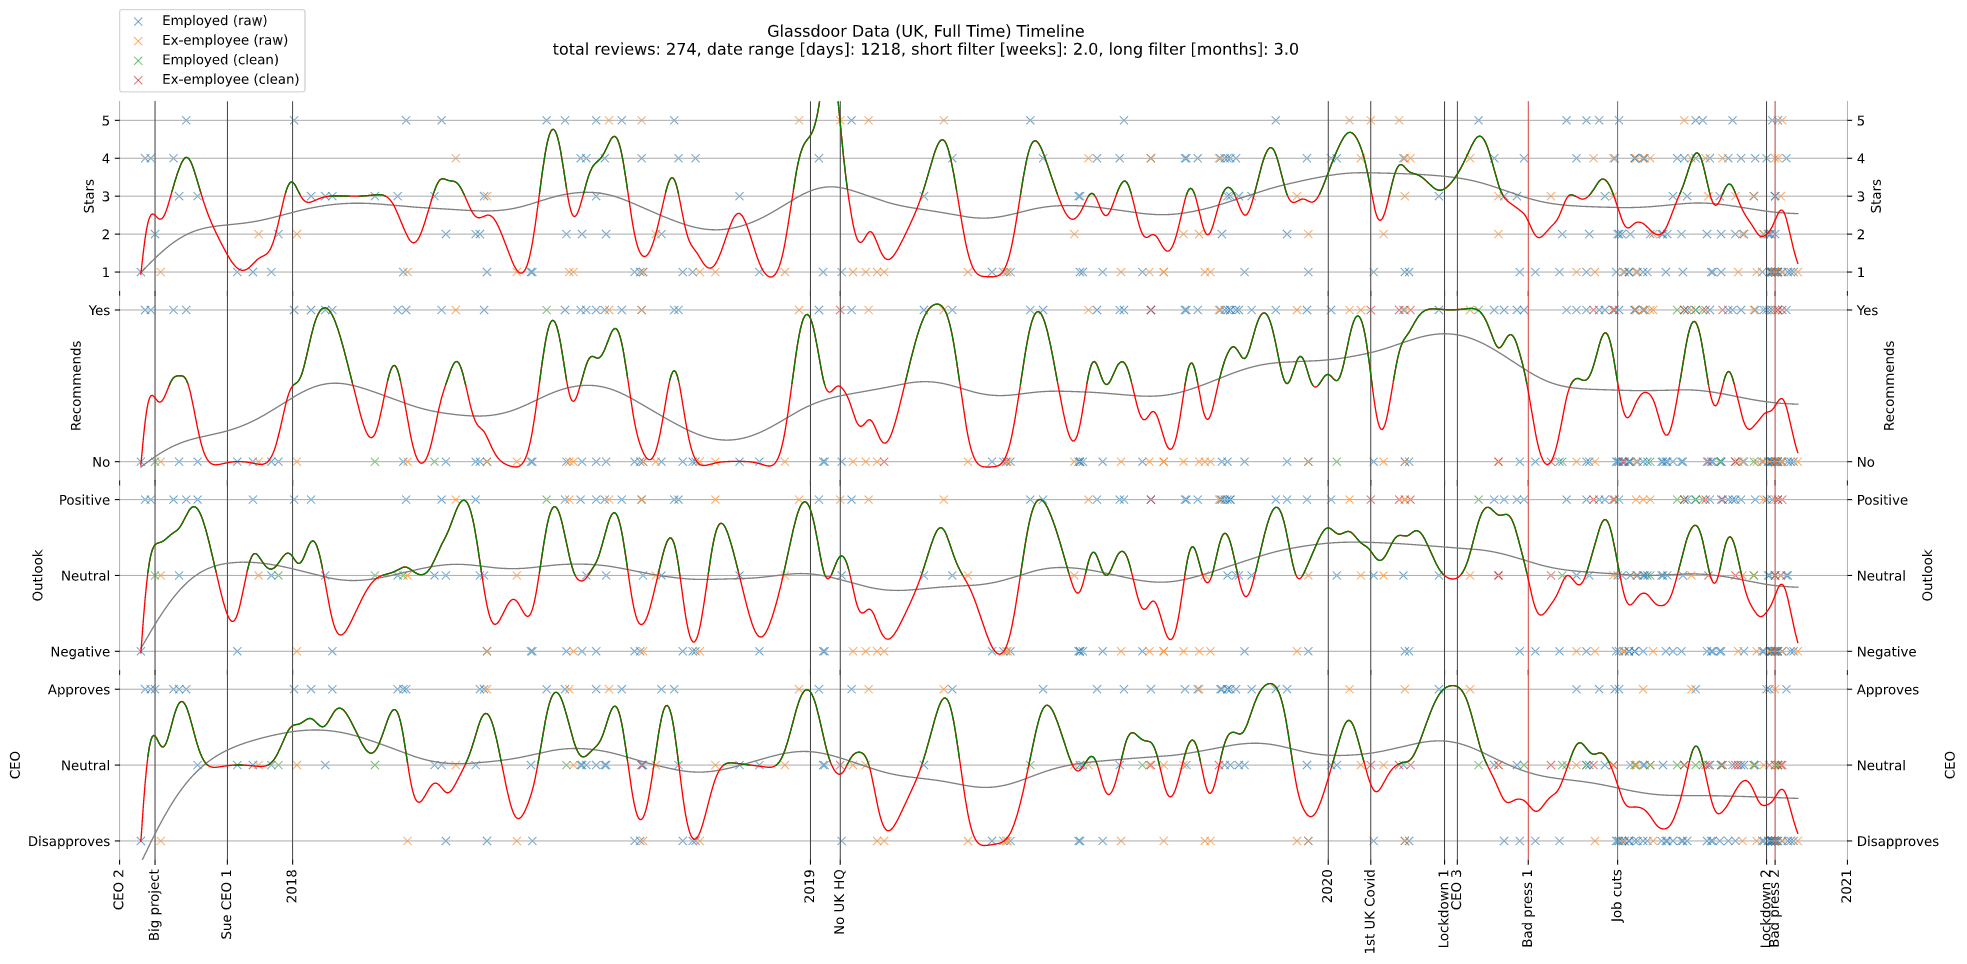
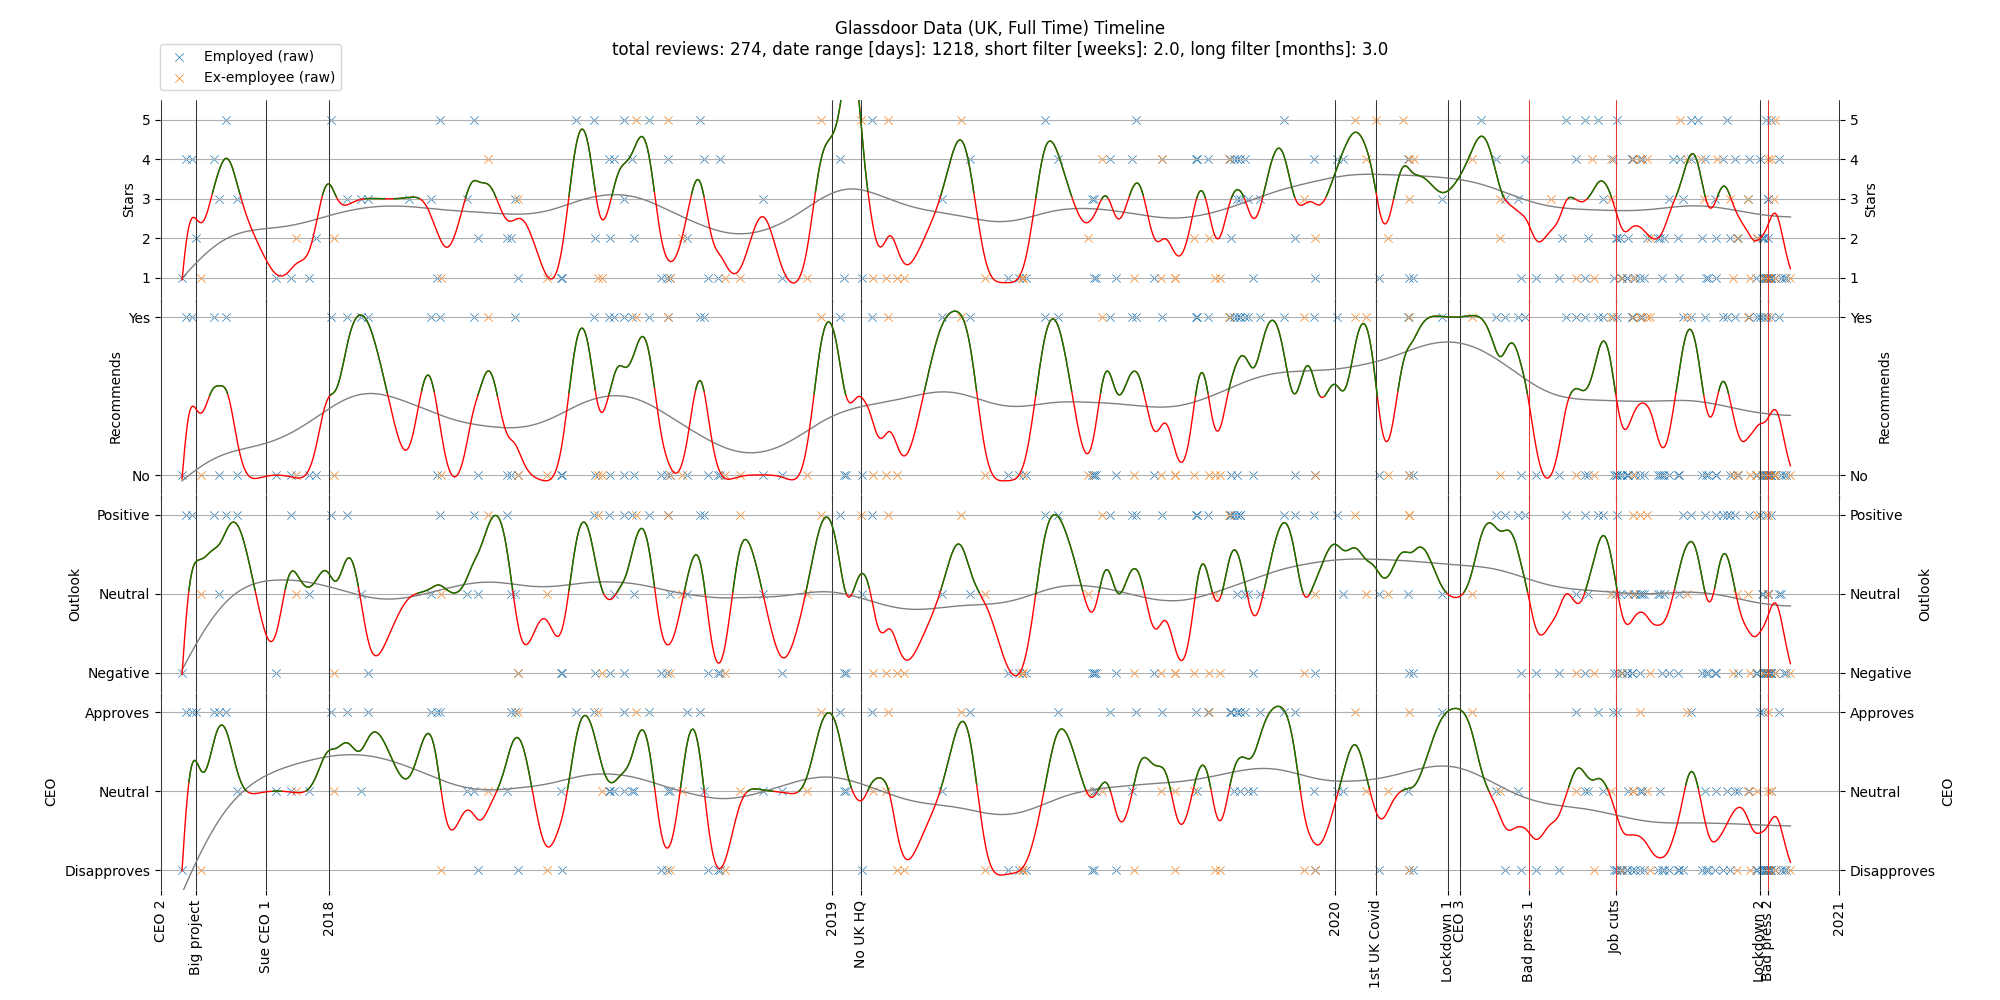
readme stats table, review_freq plot

diff --git a/main.py b/main.py
@@ -39,8 +39,14 @@ DOI_LABELS, DOI_DATES, DOI_COLOURS = zip(
     ("2021", date(2021, 1, 1), "black")
 )
 
-START_DATE = DOI_DATES[DOI_LABELS.index("CEO 2")]
-END_DATE = DOI_DATES[DOI_LABELS.index("2021")]
+def doi_date(label: str) -> date:
+    return DOI_DATES[DOI_LABELS.index(label)]
+
+def doi_label(date_: date) -> str:
+    return DOI_LABELS[DOI_DATES.index(date_)]
+
+START_DATE = doi_date("CEO 2")
+END_DATE = doi_date("2021")
 
 README_TITLE = "Glassdoor Data (UK, Full Time)"
 
@@ -58,7 +64,7 @@ df = pd.read_excel("data.xlsx").iloc[::-1]  # reverse to be ascending
 
 # %% ensure ordered
 iso = df["date"].apply(date.fromisoformat)
-assert all(x[0] <= x[1] for x in zip(iso[:-1], iso[1:]))
+assert all(prev <= curr for prev, curr in zip(iso[:-1], iso[1:]))
 
 # %% remove out of bounds rows
 df = df[(START_DATE <= iso) & (iso <= END_DATE)]
@@ -98,8 +104,8 @@ clean["ceo_opinion"] = clean["ceo_opinion"].fillna(value=0)
 clean["years"] = clean["years"].fillna(value=0)
 
 # %% create markdown report
-ceo_2_start = DOI_DATES[DOI_LABELS.index("CEO 2")]
-ceo_2_end = DOI_DATES[DOI_LABELS.index("CEO 3")]
+ceo_2_start = doi_date("CEO 2")
+ceo_2_end = doi_date("CEO 3")
 ceo_2_opinion = clean["ceo_opinion"].where(
     (ceo_2_start < clean["date"]) & (clean["date"] <= ceo_2_end)
 )
@@ -110,39 +116,39 @@ ceo_3_opinion = clean["ceo_opinion"].where(
     (ceo_3_start < clean["date"]) & (clean["date"] <= ceo_3_end)
 )
 
-def make_perc(stats: np.ndarray, label: str):
-    def perc(i = None):
-        return int(round(100 * (stats if i is None else stats[i]).mean()))
-    
-    return (
-        f"### {label}\n"
-        f"{perc()}% total\n"
-        f"- {perc(clean['technical'])}% technical\n"
-        f"- {perc(~clean['technical'])}% non-technical\n"
-        f"- {perc(clean['employed'])}% employed\n"
-        f"- {perc(~clean['employed'])}% ex-employee\n"
-        "\n"
-    )
+def make_table() -> str:
+    def make_row(bools: np.ndarray, label: str) -> str:
+        def perc(data: np.ndarray) -> str:
+            return f"{100 * data.mean():.0f}%"
+
+        return "|".join([
+            label,
+            perc(bools), 
+            perc(bools[clean['technical']]), 
+            perc(bools[~clean['technical']]), 
+            perc(bools[clean['employed']]), 
+            perc(bools[~clean['employed']]),
+        ])
+
+    return "\n".join([
+        "Statistic|Total|Technical|Non-technical|Employed|Ex-employee",
+        "-|-|-|-|-|-",
+        make_row(clean["stars"] == 5, "5 Stars"),
+        make_row(clean["stars"] == 1, "1 Star"),
+        make_row(clean["recommends"], "Recommend"),
+        make_row(clean["outlook"] == 1, "Positive Outlook"),
+        make_row(clean["outlook"] == -1, "Negative Outlook"),
+        make_row(ceo_2_opinion == 1, "Approve CEO 2"),
+        make_row(ceo_2_opinion == -1, "Disapprove CEO 2"),
+        make_row(ceo_3_opinion == 1, "Approve CEO 3"),
+        make_row(ceo_3_opinion == -1, "Disapprove CEO 3"),
+    ])
 
 with open("README.md", "w") as readme_f:
-    def write_perc(stats: np.ndarray, label: str):
-        readme_f.write(make_perc(stats, label))
-
-    readme_f.write(
-        f"# {README_TITLE}\n\n"
-        "![Plot](plot.png)\n\n"
-        f"## {START_DATE:%Y-%m-%d} to {END_DATE:%Y-%m-%d}\n\n"
-    )
-
-    write_perc(clean["stars"] == 5, "5 Stars")
-    write_perc(clean["stars"] == 1, "1 Star")
-    write_perc(clean["recommends"], "Recommend")
-    write_perc(clean["outlook"] == 1, "Positive Outlook")
-    write_perc(clean["outlook"] == -1, "Negative Outlook")
-    write_perc(ceo_2_opinion == 1, "Approve CEO 2")
-    write_perc(ceo_2_opinion == -1, "Disapprove CEO 2")
-    write_perc(ceo_3_opinion == 1, "Approve CEO 3")
-    write_perc(ceo_3_opinion == -1, "Disapprove CEO 3")
+    readme_f.write(f"# {README_TITLE}\n\n")
+    readme_f.write(f"## {START_DATE:%Y-%m-%d} to {END_DATE:%Y-%m-%d}\n\n")
+    readme_f.write("![Plot](plot.png)\n\n")
+    readme_f.write(make_table())
 
 # %% interpolate to regular timebase of 1 day
 interp = {"date": [clean["date"][0]]}
@@ -169,15 +175,16 @@ for key in TIMELINE_KEYS:
 # %% set up figure and plot data
 fig, axes = plt.subplots(4, 1, sharex=True)
 stars_ax, recommends_ax, outlook_ax, ceo_opinion_ax = axes
-fig.subplots_adjust(left=0.08, bottom=0.11, right=0.98, top=0.9, hspace=0)
+fig.subplots_adjust(left=0.08, bottom=0.11, right=0.92, top=0.9, hspace=0)
 fig.suptitle(
     f"{README_TITLE} Timeline\n"
-    f"total reviews: {len(clean['date'])}, "
+    f"total reviews: {len(raw['date'])}, "
     f"date range [days]: {(END_DATE - START_DATE).days}, "
     f"short filter [weeks]: {FILT_SHORT_DAYS / 7:.1f}, "
     f"long filter [months]: {FILT_LONG_DAYS * 12 / 365:.1f}"
 )
 fig.set_size_inches(20, 10)
+fig.set_facecolor("white")
 
 filt_dates = (
     d for d in DOI_DATES
@@ -186,7 +193,7 @@ filt_dates = (
 xticks = (START_DATE, *filt_dates, END_DATE)
 # use date of interest label if exists else use ISO date by default
 xticklabels = tuple(
-    DOI_LABELS[DOI_DATES.index(d)] if d in DOI_DATES else d.isoformat()
+    doi_label(d) if d in DOI_DATES else d.isoformat()
     for d in xticks
 )
 
@@ -225,14 +232,6 @@ for ax, raw_, clean_, lp_short, lp_long, title, ylim, ylabels in plot_data:
         raw["date"], raw_.where(~clean["employed"]), 
         marker="x", linewidth=0.5, label="Ex-employee (raw)"
     )
-    ax.scatter(  # clean employed
-        clean["date"], clean_.where(raw_.isna() & clean["employed"]), 
-        marker="x", linewidth=0.5, label="Employed (clean)"
-    )
-    ax.scatter(  # clean ex-employee
-        clean["date"], clean_.where(raw_.isna() & ~clean["employed"]), 
-        marker="x", linewidth=0.5, label="Ex-employee (clean)"
-    )
     ax.plot(  # filtered data
         interp["date"], lp_long, "grey",
         interp["date"], lp_short, "red",
@@ -254,9 +253,46 @@ for ax, raw_, clean_, lp_short, lp_long, title, ylim, ylabels in plot_data:
         a.set_ylim(ylim)
     ax.set_xticks(xticks)
     ax.set_xticklabels(xticklabels, rotation=90)
-    ax.set_xlim([min(xticks), max(xticks)])
+    ax.set_xlim(
+        [min(xticks) - timedelta(days=1), max(xticks) + timedelta(days=1)]
+    )
     ax.grid()
 else:
-    # add legend to first plot and show
+    # add legend to first plot
     axes[0].legend(loc=(0, 1.05))
+
+    # save the figure
+    fig.savefig("plot.png")
+
     plt.show()
+
+# %% plot review frequency
+
+from collections import Counter
+from math import ceil
+
+count = Counter(raw["date"])
+
+fig, ax = plt.subplots()
+fig.set_size_inches(20, 5)
+fig.set_facecolor("white")
+
+days = (END_DATE - START_DATE).days
+ax.hist(count, bins=int(days * 12 / 365), label="Per month")
+ax.hist(count, bins=int(days * 52 / 365), label="Per week")
+ax.hist(count, bins=int(days), label="Per day")
+
+ax.set_title("Review frequency")
+ax.set_xticks(xticks)
+ax.set_xticklabels(xticklabels, rotation=90)
+ax.set_xlim(
+    [min(xticks) - timedelta(days=1), max(xticks) + timedelta(days=1)]
+)
+ymax = ceil(ax.get_ylim()[1])
+ax.set_ylim([0, ymax])
+tick_step = 2
+ax.set_yticks(range(0, ymax + tick_step, tick_step))
+ax.grid()
+ax.legend()
+
+plt.show()

diff --git a/README.md b/README.md
@@ -1,69 +1,17 @@
 # Glassdoor Data (UK, Full Time)
 
-![Plot](plot.png)
-
 ## 2017-09-01 to 2021-01-01
 
-### 5 Stars
-12% total
-- 11% technical
-- 14% non-technical
-- 12% employed
-- 13% ex-employee
+![Plot](plot.png)
 
-### 1 Star
-35% total
-- 33% technical
-- 38% non-technical
-- 33% employed
-- 39% ex-employee
-
-### Recommend
-42% total
-- 45% technical
-- 38% non-technical
-- 43% employed
-- 39% ex-employee
-
-### Positive Outlook
-36% total
-- 39% technical
-- 31% non-technical
-- 36% employed
-- 36% ex-employee
-
-### Negative Outlook
-36% total
-- 38% technical
-- 35% non-technical
-- 37% employed
-- 35% ex-employee
-
-### Approve CEO 2
-18% total
-- 15% technical
-- 20% non-technical
-- 21% employed
-- 11% ex-employee
-
-### Disapprove CEO 2
-14% total
-- 13% technical
-- 14% non-technical
-- 11% employed
-- 20% ex-employee
-
-### Approve CEO 3
-4% total
-- 5% technical
-- 4% non-technical
-- 4% employed
-- 5% ex-employee
-
-### Disapprove CEO 3
-22% total
-- 27% technical
-- 16% non-technical
-- 27% employed
-- 10% ex-employee
-
+Statistic|Total|Technical|Non-technical|Employed|Ex-employee
+-|-|-|-|-|-
+5 Stars|12%|11%|14%|12%|13%
+1 Star|35%|33%|38%|33%|39%
+Recommend|42%|45%|38%|43%|39%
+Positive Outlook|36%|39%|31%|36%|36%
+Negative Outlook|36%|38%|35%|37%|35%
+Approve CEO 2|18%|15%|20%|21%|11%
+Disapprove CEO 2|14%|13%|14%|11%|20%
+Approve CEO 3|4%|5%|4%|4%|5%
+Disapprove CEO 3|22%|27%|16%|27%|10%
